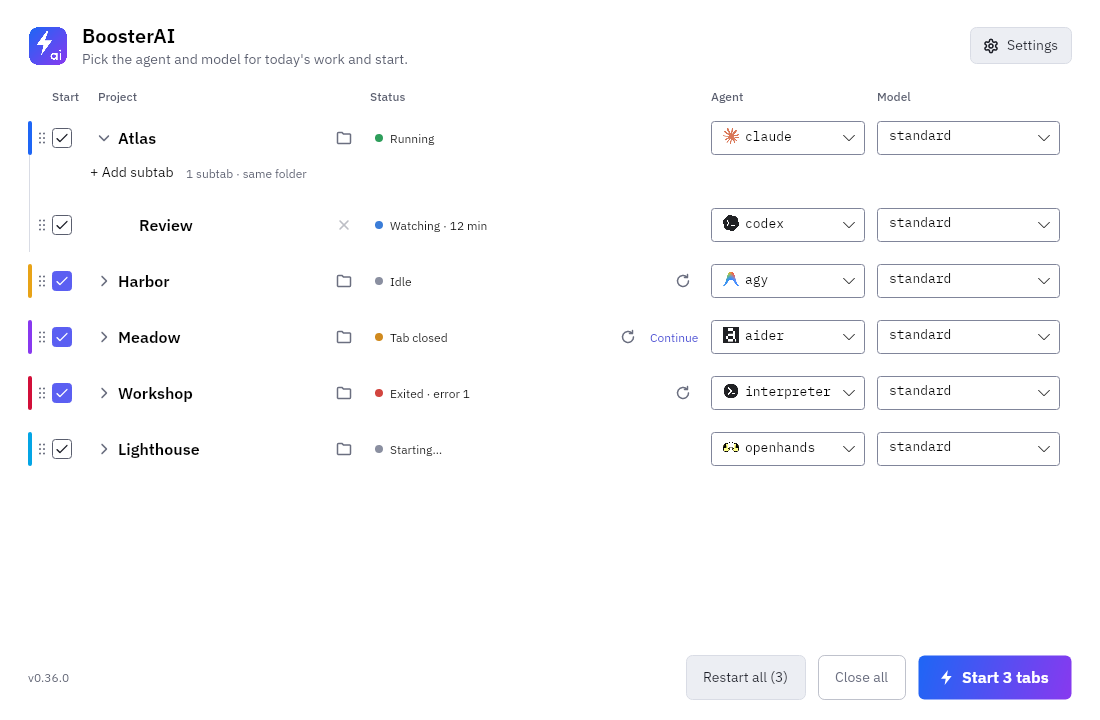
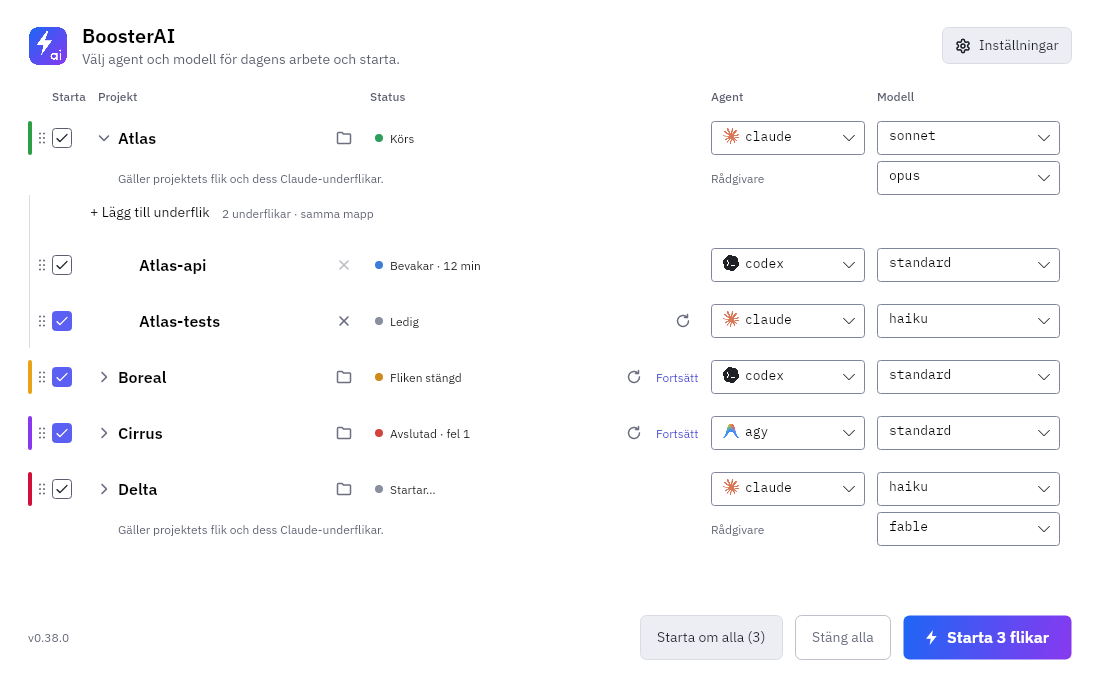
Show advisor with the project choices even when collapsed (#173)

diff --git a/docs/DETAILS.md b/docs/DETAILS.md
@@ -16,7 +16,7 @@ The app follows the system's light or dark theme; `--theme light` or `--theme da
 
 ## Multiple tabs for one project
 
-Expand a project's chevron on the main page and choose **Add subtab**. Its new row shares the project's folder without adding another project in Settings. Edit the subtab's name directly on the main page, then choose its own AI CLI, model, orchestra and Run once settings. The initial choices copy the main tab; later changes are independent. A Claude project also has an **Advisor** choice in its expanded row (hidden for other agents), saved as `Advisor` in the config. *Standard* passes nothing, so Claude keeps its own saved `/advisor` setting. To avoid a doubled token bill the choices are Opus and Fable only, and the advisor is passed only when the tab's model is explicitly Sonnet or Haiku (an Opus/Fable, *Standard* or custom model gets a warning next to the choice and no `--advisor`; subtabs are checked with their own model). Otherwise the value is passed as `--advisor <model>` on start, restart and Run once, and its subtabs inherit it. Changing it on a running tab marks the tab as changed, and an in-place restart continues the conversation like a model change. Each checkbox selects that tab alone: an unticked main tab does not disable its selected subtabs. Collapsing the group only hides its rows; their selection and monitoring keep working.
+Expand a project's chevron on the main page and choose **Add subtab**. Its new row shares the project's folder without adding another project in Settings. Edit the subtab's name directly on the main page, then choose its own AI CLI, model, orchestra and Run once settings. The initial choices copy the main tab; later changes are independent. A Claude project also has an **Advisor** choice below its Agent and Model fields (hidden for other agents), saved as `Advisor` in the config. It stays visible when the project is collapsed and applies to the project tab as well as its Claude subtabs; the scope is stated beside the choice. *Standard* passes nothing, so Claude keeps its own saved `/advisor` setting. To avoid a doubled token bill the choices are Opus and Fable only, and the advisor is passed only when the tab's model is explicitly Sonnet or Haiku (an Opus/Fable, *Standard* or custom model gets a warning next to the choice and no `--advisor`; subtabs are checked with their own model). Otherwise the value is passed as `--advisor <model>` on start, restart and Run once, and its subtabs inherit it. Changing it on a running tab marks the tab as changed, and an in-place restart continues the conversation like a model change. Each checkbox selects that tab alone: an unticked main tab does not disable its selected subtabs. Collapsing the group only hides its rows; their selection and monitoring keep working.
 
 On a fresh Start the order is the main tab, its selected subtabs, then the next project's group. Drag a project's grip (the dots left of its checkbox) to move its whole group, or a subtab's grip to reorder it among its siblings. Without a mouse, focus a row (its grip takes keyboard focus with a visible ring) and press Alt+Up/Down: the row moves one step among the same peers and the order is saved at once; a list with the focus keeps Alt+Down for opening itself. Right-click a row, or press the context-menu key, for **Move up**, **Move down**, **Restart**, **Continue conversation** and **Open in Explorer** (*Open in the file manager* on Linux). A subtab is indented 20 px under its project, with a thin line continuing the project's colour stripe. Already-open terminal tabs are not moved: newly added or reopened tabs join that terminal's existing window where the terminal app places new tabs. The stored group order applies the next time the group starts together. A subtab can be removed with its × after its terminal has closed; an exited CLI with an open idle shell still belongs to that tab. Removing a project in Settings removes its whole configured group, just as removing a project previously removed its one configured tab.
 

diff --git a/docs/verification/173/verification.md b/docs/verification/173/verification.md
@@ -1,0 +1,27 @@
+# Advisor placement (#173)
+
+The advisor controls now form a second line in the project's Agent/Model grid. They remain visible when the project is collapsed. The subtab add action stays in the expandable section below. A visible localized scope sentence states that the choice applies to the project tab and its Claude subtabs. The warning wraps instead of truncating. No launcher, persistence, model policy or view-model code changed.
+
+Verified on Linux/WSL with .NET SDK 10.0.115 against the delivered source tree based on `5dc373d`; the completion issue records the exact commit.
+
+- `dotnet build src/BoosterAI -c Release`: passed, 0 warnings/errors.
+- `dotnet test tests/BoosterAI.Tests`: 1175 passed, 0 failed/skipped. Three existing analyzer warnings in CliUpdateTests and LocTests; no new warnings.
+- `git diff --check`: passed.
+- Headless screenshots inspected: expanded/collapsed Claude projects, a Claude subtab without a duplicate advisor editor, another-agent subtab and non-Claude projects, Swedish/English, light/dark, 1100/900 px, and invalid Opus + Opus warning. The 900 px English image also shows the orchestra column. Advisor fields, scope and warning remain readable; the existing narrow project/status columns may truncate their own content. No UI was opened on the desktop.
+- README and DETAILS describe the new placement. README main images refreshed from the Swedish samples.
+
+Images and inputs:
+
+| State | Input | Image |
+| --- | --- | --- |
+| Swedish, expanded, light | [neutral-sv.json](neutral-sv.json) | [main-sv.png](main-sv.png) |
+| Swedish, expanded, dark | [neutral-sv.json](neutral-sv.json) | [main-dark-sv.png](main-dark-sv.png) |
+| Swedish, collapsed | [collapsed-sv.json](collapsed-sv.json) | [collapsed-sv.png](collapsed-sv.png) |
+| Swedish, 900 px, cost warning, dark | [warning-sv.json](warning-sv.json) | [warning-sv.png](warning-sv.png) |
+| English, expanded | [neutral-en.json](neutral-en.json) | [main-en.png](main-en.png) |
+| English, 900 px, orchestra, dark | [neutral-en.json](neutral-en.json) | [narrow-en.png](narrow-en.png) |
+| English, 900 px, cost warning | [warning-en.json](warning-en.json) | [warning-en.png](warning-en.png) |
+
+Reproduce with `dotnet src/BoosterAI/bin/Release/net10.0/BoosterAI.dll --screenshot <image> --config <input>`; add `--height 680` for expanded samples, `--theme dark` for dark samples, `--width 900` for narrow samples, and `--fake-orchestra-idle` for narrow-en. The default height is 560 px.
+
+Review: existing field binding, keyboard/accessibility name, model choices and warning conditions are retained. Both the project-only and Claude-only visibility gates remain. Shared responsive column handling keeps controls aligned after resize or orchestra-column changes. No new platform-specific logic or terminal arguments; native Windows/terminal checks do not apply to this UI-only change. Release and the local installed version are reported separately on the issue.

diff --git a/README.md b/README.md
@@ -12,7 +12,7 @@ Start your whole working day with one click: BoosterAI opens every project you w
 ## Highlights
 
 - **One click, all your workspaces:** Opens each repository in its own color-coded tab in the right directory. Add subtabs sharing a folder for multi-agent workflows.
-- **Model control:** Pick a model per tab, and for Claude an optional per-project advisor model (`--advisor`; Opus or Fable, only beside a Sonnet or Haiku model so the cost is not doubled; *Standard* keeps Claude's own `/advisor` setting) in the expanded project row. Interactive Claude, Codex and Aider tabs can resume after a model change when no other tab shares their CLI and folder; see the [conversation limits](docs/DETAILS.md#multiple-tabs-for-one-project).
+- **Model control:** Pick a model per tab, and for Claude an optional per-project advisor model (`--advisor`; Opus or Fable, only beside a Sonnet or Haiku model so the cost is not doubled; *Standard* keeps Claude's own `/advisor` setting) below Agent and Model in the project row, visible even when subtabs are collapsed. The choice applies to the project tab and its Claude subtabs. Interactive Claude, Codex and Aider tabs can resume after a model change when no other tab shares their CLI and folder; see the [conversation limits](docs/DETAILS.md#multiple-tabs-for-one-project).
 - **Agent overview:** Recognize each CLI by its icon; manage installation, permissions and context in separate settings sections.
 - **Context budgets:** Choose Off, Clear when idle or Summarize in Memory and context → Context. Summarize offers Auto or Manual budgets; the illustrated Auto guide explains model capacity and task reserves. Tune individual agents in Manual. [How budgets work](docs/DETAILS.md#auto-compaction-budgets).
 - **Local models:** Open Settings → AI agents → **Local models** to compare downloadable models, get a hardware-based starting suggestion and download a chosen model through a local Ollama server. Agent programs and model downloads have separate interfaces. Existing exact-model assessment remains available on the agent pages. [Evidence and limits](docs/DETAILS.md#local-model-hardware-advice).
